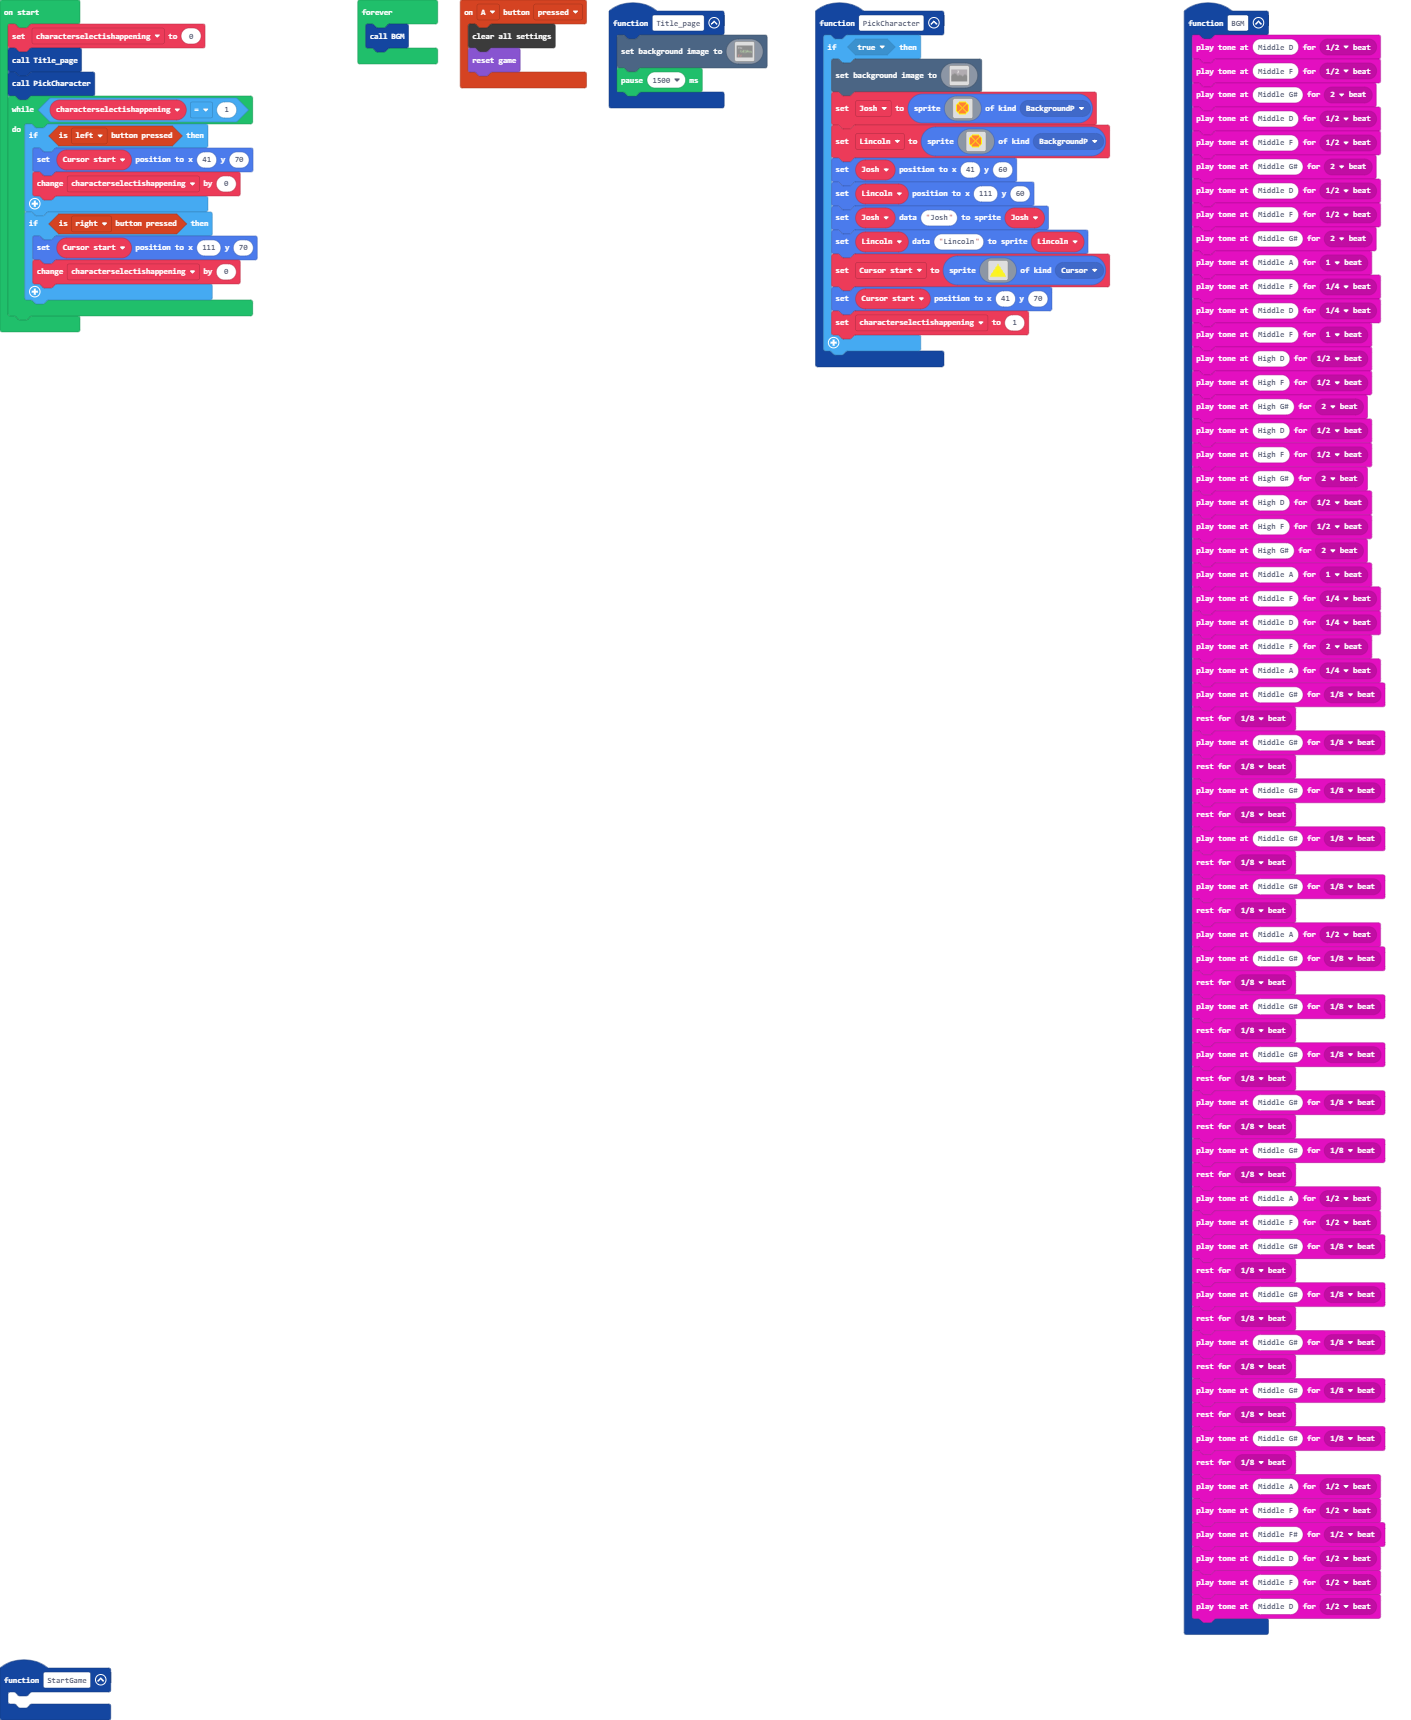
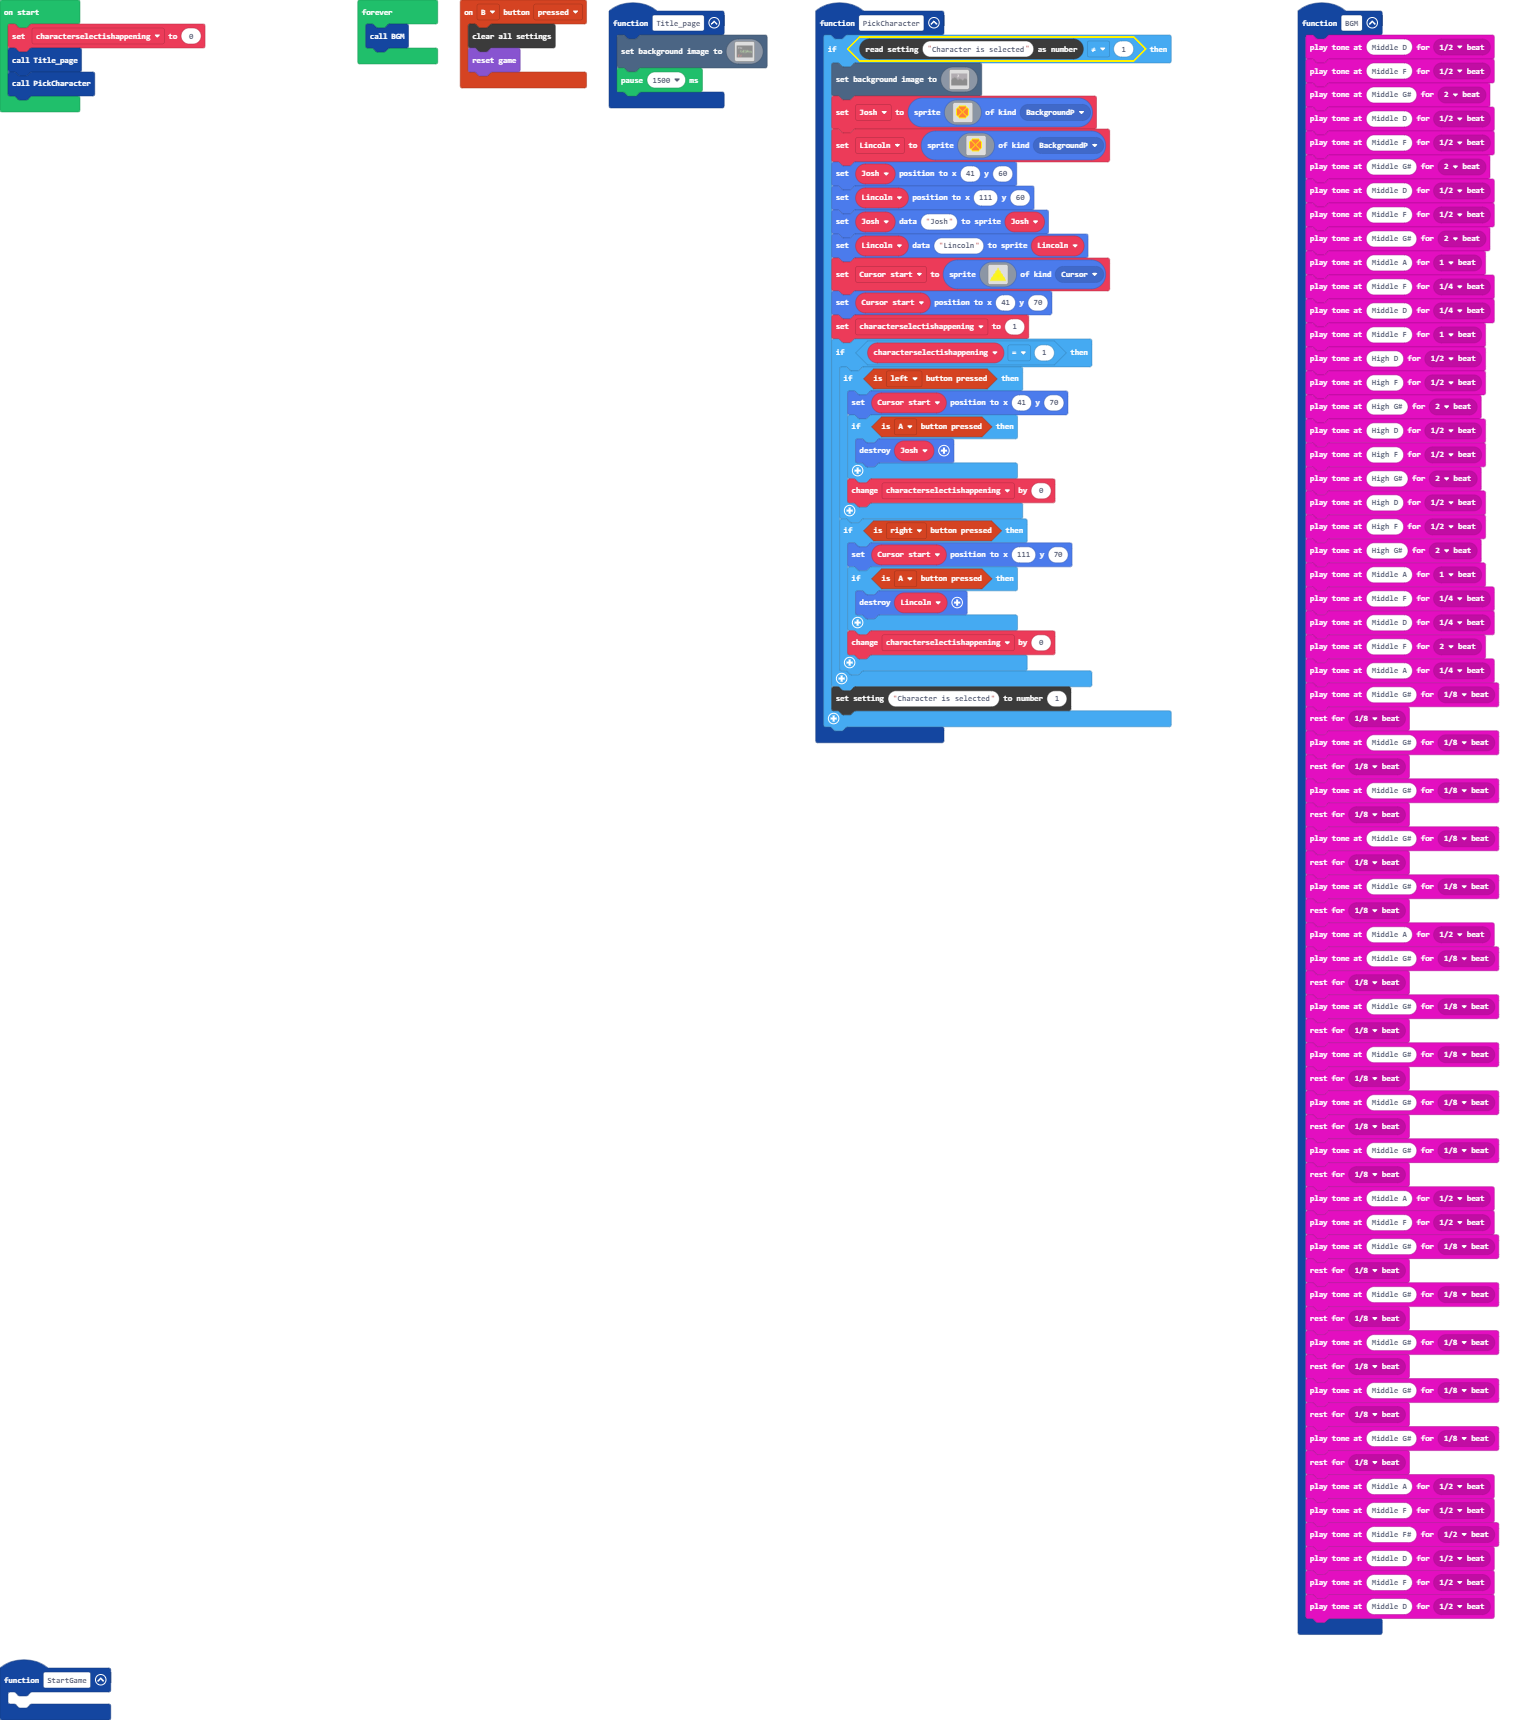
Update main.blocks, main.ts

diff --git a/main.ts b/main.ts
@@ -2,7 +2,7 @@ namespace SpriteKind {
     export const BackgroundP = SpriteKind.create()
     export const Cursor = SpriteKind.create()
 }
-controller.A.onEvent(ControllerButtonEvent.Pressed, function () {
+controller.B.onEvent(ControllerButtonEvent.Pressed, function () {
     blockSettings.clear()
     game.reset()
 })
@@ -200,7 +200,7 @@ function Title_page () {
     pause(1500)
 }
 function PickCharacter () {
-    if (true) {
+    if (blockSettings.readNumber("Character is selected") != 1) {
         scene.setBackgroundImage(img`
             c c c c c c c c c c c c c c c c c c c c c c c c c c c c c c c c c c c c c c c c c c c c c c c c c c c c c c c c c c c c c c c c c c c c c c c c c c c c c c c c c c c c c c c c c c c c c c c c c c c c c c c c c c c c c c c c c c c c c c c c c c c c c c c c c c c c c c c c c c c c c c c c c c c c c c c c c c c c c c c c 
             c c c c c c c c c c c c c c c c c c c c c c c c c c c c c c c c c c c c c c c c c c c c c c c c c c c c c c c c c c c c c c c c c c c c c c c c c c c c c c c c c c c c c c c c c c c c c c c c c c c c c c c c c c c c c c c c c c c c c c c c c c c c c c c c c c c c c c c c c c c c c c c c c c c c c c c c c c c c c c c c 
@@ -379,28 +379,35 @@ function PickCharacter () {
             `, SpriteKind.Cursor)
         Cursor_start.setPosition(41, 70)
         characterselectishappening = 1
+        if (characterselectishappening == 1) {
+            if (controller.left.isPressed()) {
+                Cursor_start.setPosition(41, 70)
+                if (controller.A.isPressed()) {
+                    Josh.destroy()
+                }
+                characterselectishappening += 0
+            }
+            if (controller.right.isPressed()) {
+                Cursor_start.setPosition(111, 70)
+                if (controller.A.isPressed()) {
+                    Lincoln.destroy()
+                }
+                characterselectishappening += 0
+            }
+        }
+        blockSettings.writeNumber("Character is selected", 1)
     }
 }
 function StartGame () {
 	
 }
+let Cursor_start: Sprite = null
 let Lincoln: Sprite = null
 let Josh: Sprite = null
-let Cursor_start: Sprite = null
 let characterselectishappening = 0
 characterselectishappening = 0
 Title_page()
 PickCharacter()
-while (characterselectishappening == 1) {
-    if (controller.left.isPressed()) {
-        Cursor_start.setPosition(41, 70)
-        characterselectishappening += 0
-    }
-    if (controller.right.isPressed()) {
-        Cursor_start.setPosition(111, 70)
-        characterselectishappening += 0
-    }
-}
 forever(function () {
     BGM()
 })
